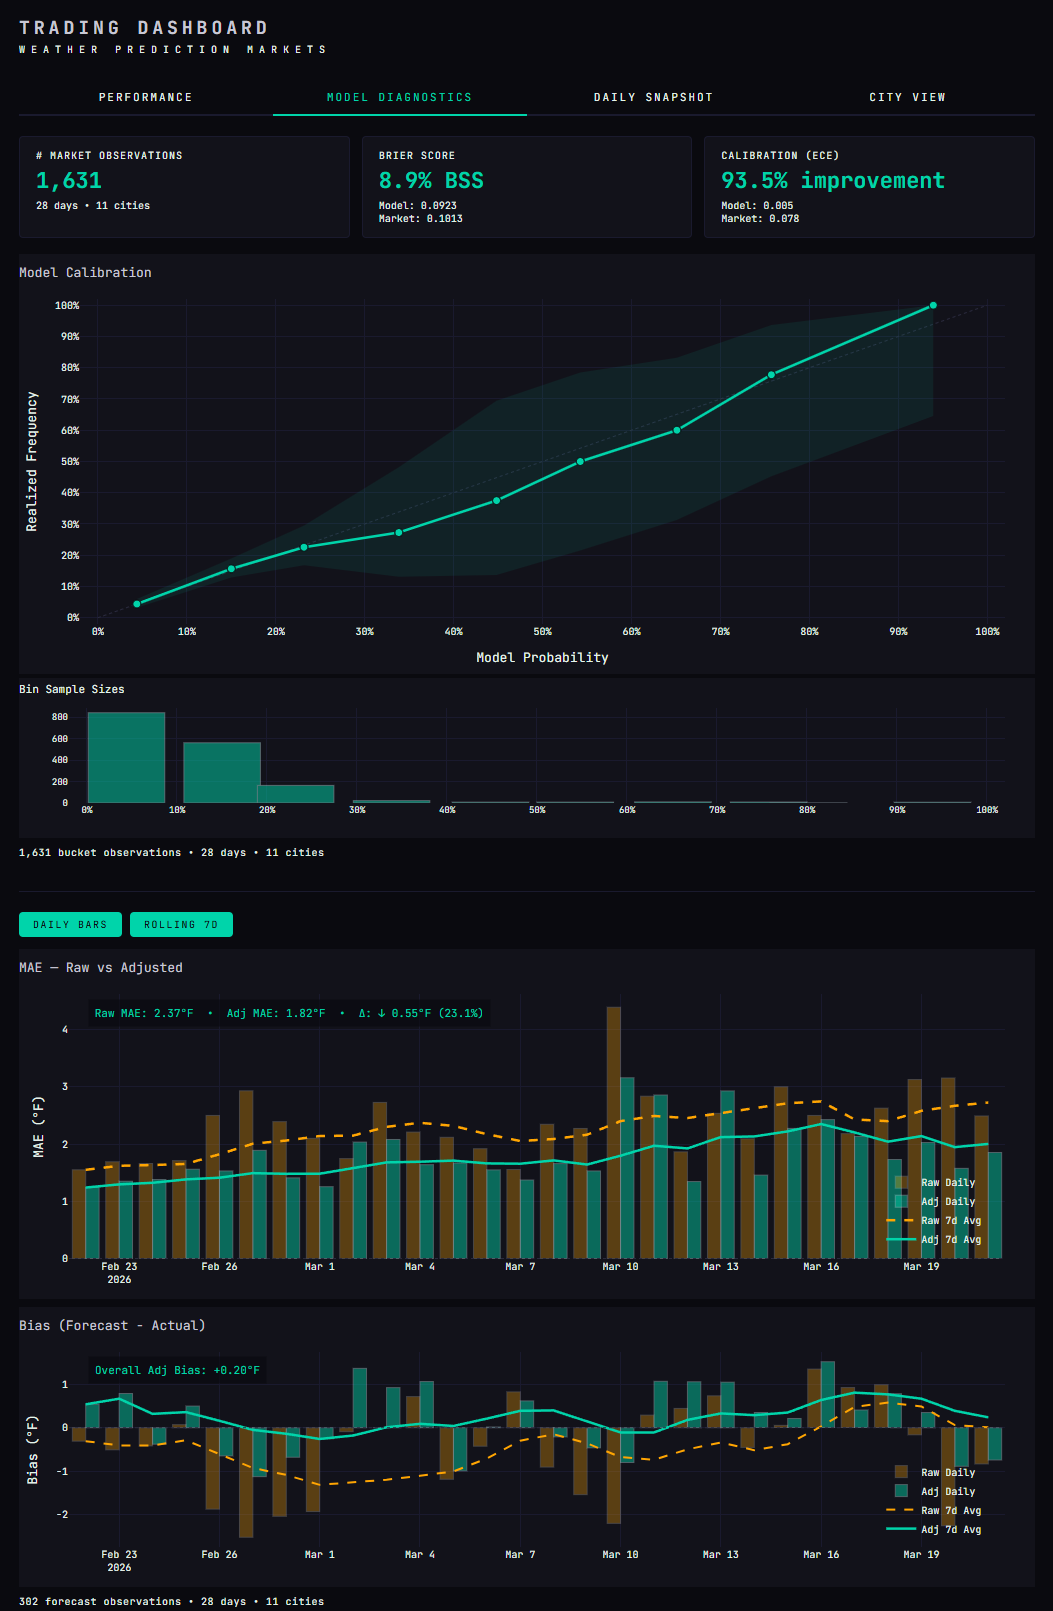
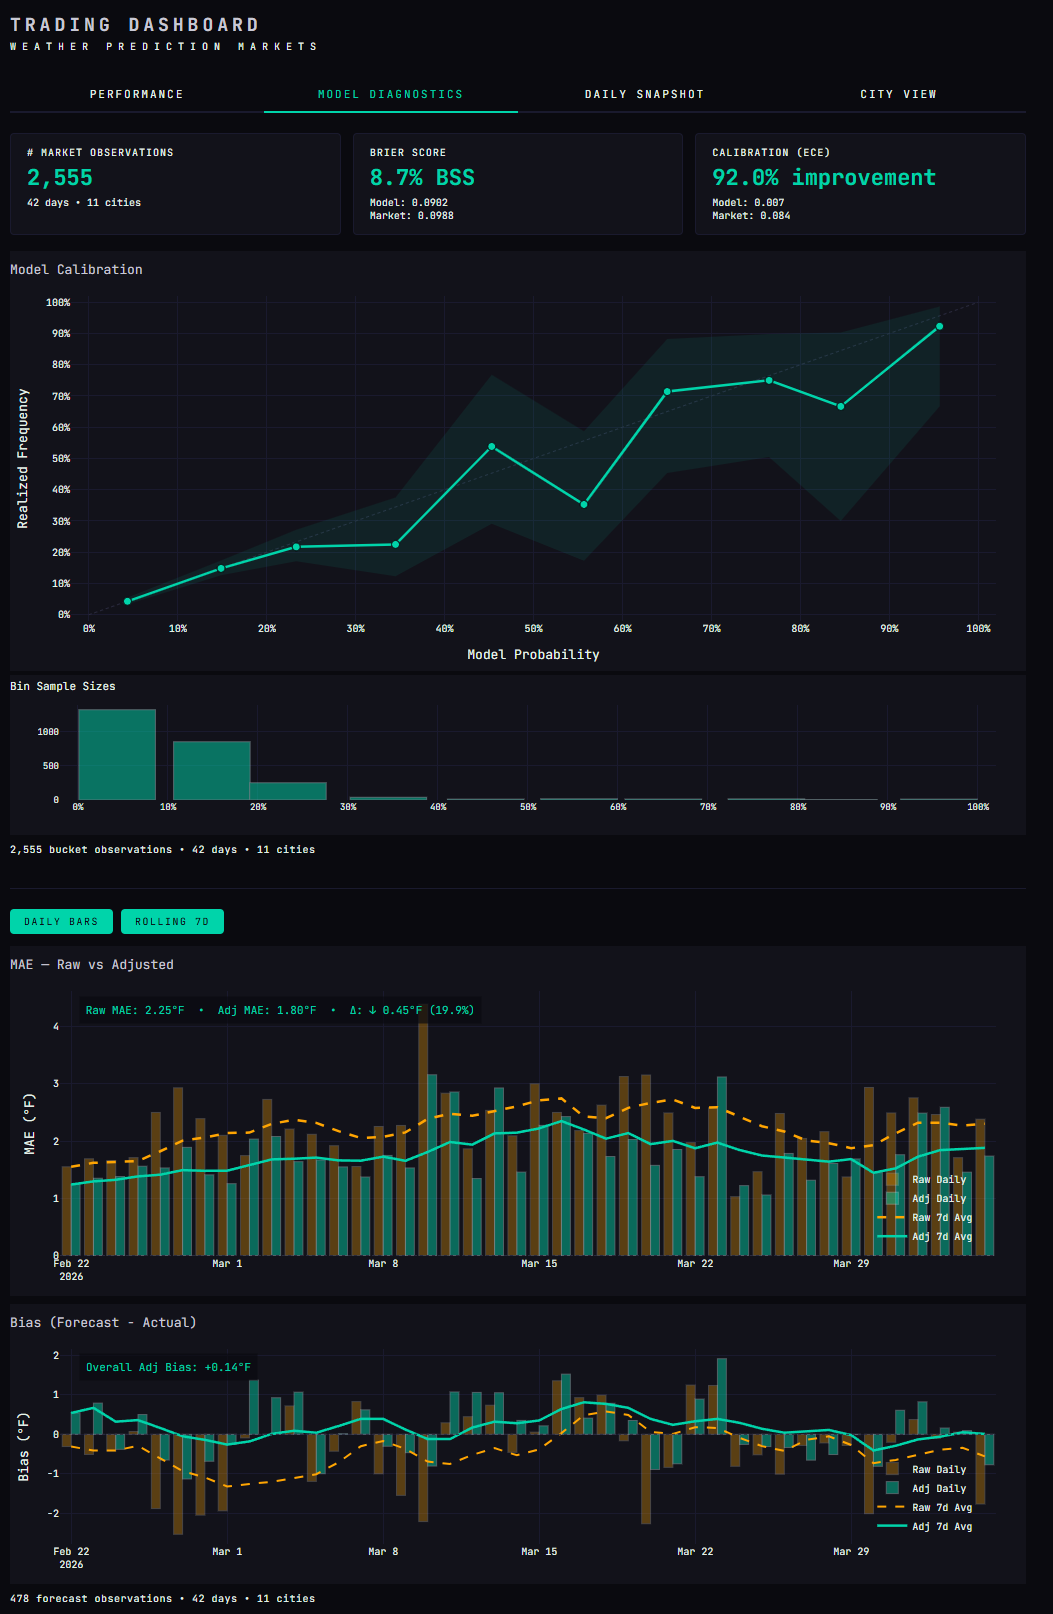
Update performance_tab and diagnostics_tab

diff --git a/README.md b/README.md
@@ -11,7 +11,7 @@ This strategy trades binary outcome contracts by generating calibrated probabili
 
 The strategy has been deployed in its current state since 2026-02-22 (earlier versions have been trading since January).
 
-### Performance Summary (As of 2026-03-22)
+### Performance Summary (As of 2026-04-05)
 
 ![Performance Summary](results/plots/performance_tab.png)
 
